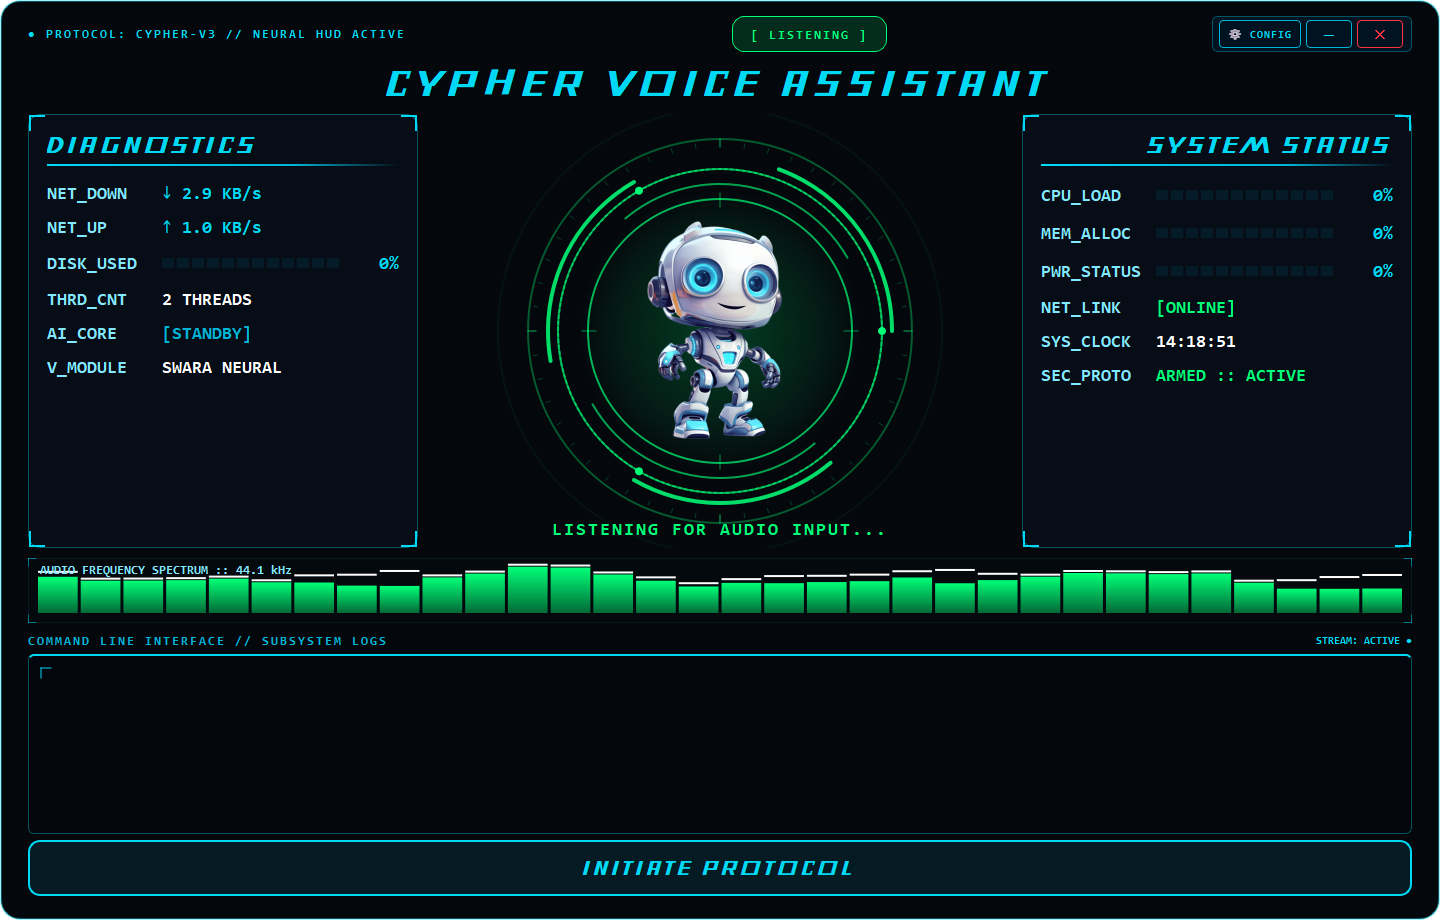
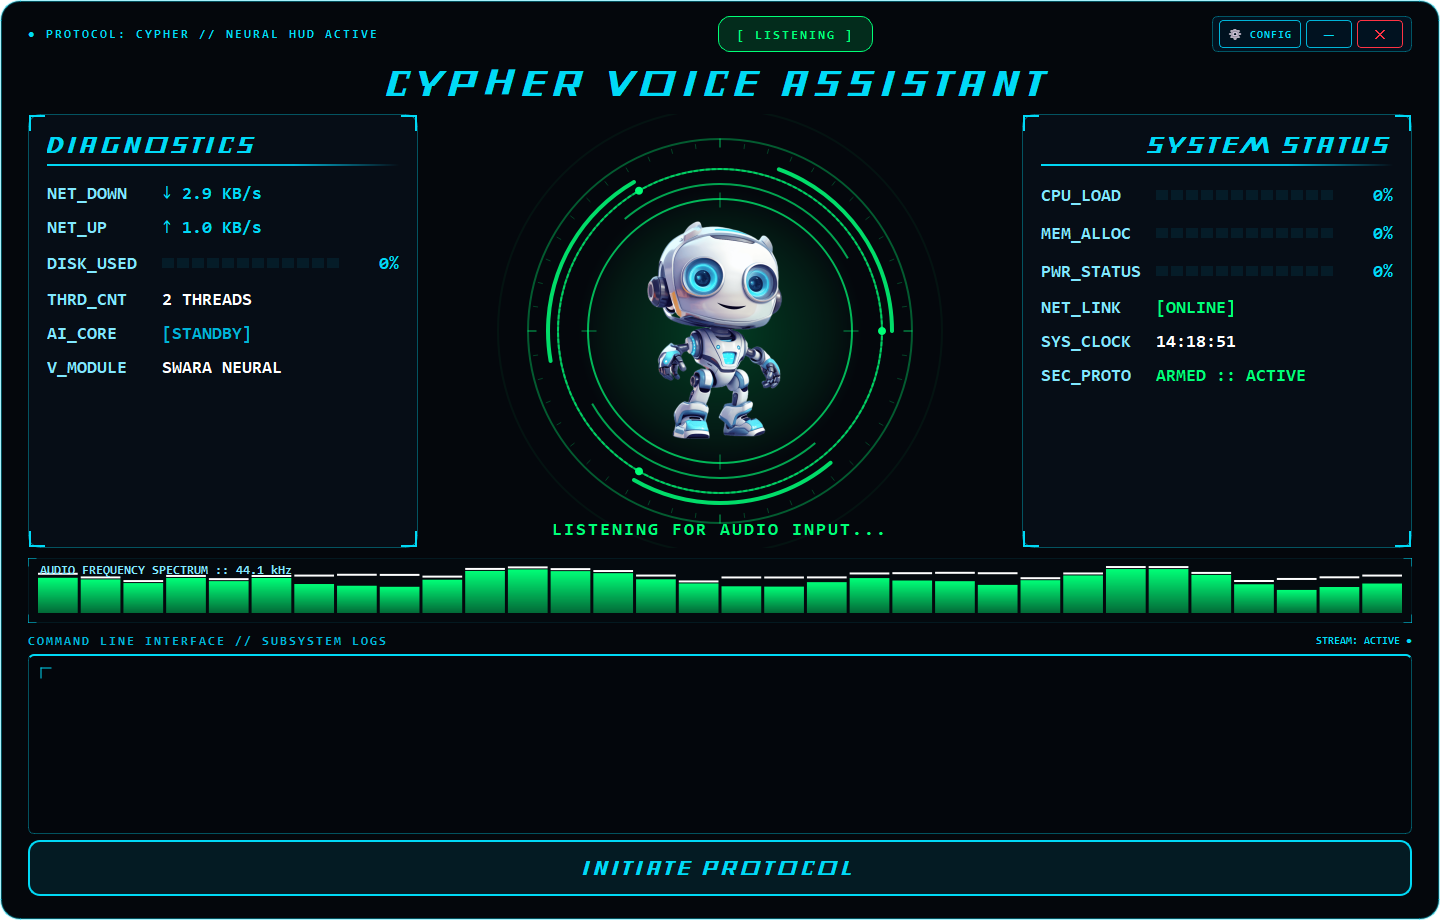
chore(release): bump version to 3.0.1 and remove hardcoded version from UI
### Summary
- Removed hardcoded version number string (-V3) from the main HUD top security banner.
- Bumped release download and tag hyperlinks in README.md to v3.0.1.
- Regenerated high-resolution HUD state showcase screenshots to reflect version-agnostic protocol header.

### Key Changes
- frontend/gui.py: Updated security banner label from 'PROTOCOL: CYPHER-V3' to 'PROTOCOL: CYPHER' to decouple UI from hardcoded release tags.
- docs/README.md: Bumped release binary download link and release badge to v3.0.1.
- docs/screenshots: Refreshed idle, listening, processing, speaking, and settings screenshots with clean banner.

### Security & Privacy Impact
- Zero security or privacy risk; UI branding and documentation version bump only.

### Verification
- Automated test run outcomes: Ran 6 tests in 0.004s - OK.

diff --git a/gui.py b/gui.py
@@ -1226,7 +1226,7 @@ class MainWindow(QtWidgets.QMainWindow):
         top_bar.setContentsMargins(0, 0, 0, 0)
 
         # Left: Sci-Fi Security Banner
-        self.lbl_sec_badge = QtWidgets.QLabel("● PROTOCOL: CYPHER-V3 // NEURAL HUD ACTIVE")
+        self.lbl_sec_badge = QtWidgets.QLabel("● PROTOCOL: CYPHER // NEURAL HUD ACTIVE")
         self.lbl_sec_badge.setStyleSheet(f"""
             color: {COLOR_ACCENT};
             font-family: 'Consolas', monospace;

diff --git a/README.md b/README.md
@@ -15,7 +15,7 @@
 
 <br/>
 
-[⬇ **Download Standalone EXE**](https://github.com/pattanayakpratik/Cypher-AI/releases/download/v3.0.0/Cypher-AI.exe) • [Key Features](#-key-features) • [HUD Showcase](#-hud-visual-gallery) • [Installation](#-installation--quick-start) • [Voice Commands](#-command-matrix) • [Author](#-author--connect)
+[⬇ **Download Standalone EXE**](https://github.com/pattanayakpratik/Cypher-AI/releases/download/v3.0.1/Cypher-AI.exe) • [Key Features](#-key-features) • [HUD Showcase](#-hud-visual-gallery) • [Installation](#-installation--quick-start) • [Voice Commands](#-command-matrix) • [Author](#-author--connect)
 
 </div>
 
@@ -129,7 +129,7 @@ graph TD
 
 No Python, terminal, or virtual environments required!
 
-1. Download **[`Cypher-AI.exe`](https://github.com/pattanayakpratik/Cypher-AI/releases/download/v3.0.0/Cypher-AI.exe)** from the [Latest Release](https://github.com/pattanayakpratik/Cypher-AI/releases/tag/v3.0.0).
+1. Download **[`Cypher-AI.exe`](https://github.com/pattanayakpratik/Cypher-AI/releases/download/v3.0.1/Cypher-AI.exe)** from the [Latest Release](https://github.com/pattanayakpratik/Cypher-AI/releases/tag/v3.0.1).
 2. Double-click **`Cypher-AI.exe`** to launch the holographic HUD.
 3. On first run, the **Credentials Vault** will prompt you to enter your free Google Gemini API key. Click **"SAVE & APPLY PROTOCOLS"** and Cypher is online!
 
